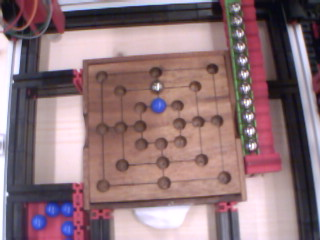
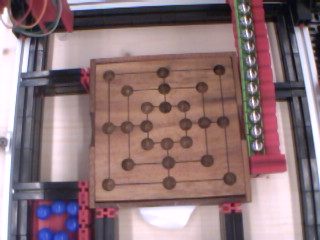
Fine prima parte

diff --git a/Tria.py b/Tria.py
@@ -52,10 +52,10 @@ Ypos = [900, 900, 900, 1471, 1471, 1471, 2500, 2500, 2500,
         3926, 4747, 4747, 4747, 5531, 5531, 5531]
 
 # Coordinate posizioni immagine fotocamera
-XposIMG = [98, 153, 208, 117, 154, 192, 138, 157, 173, 99, 118,
-           136, 176, 195, 214, 137, 156, 177, 117, 159, 198, 98, 159, 222]
-YposIMG = [70, 67, 64, 86, 82, 81, 102, 103, 100, 122, 122, 121,
-           118, 116, 116, 139, 137, 136, 158, 157, 155, 180, 178, 172]
+XposIMG = [106, 157, 213, 121, 158, 196, 143, 162, 182, 103, 120, 142, 181,
+           201, 220, 142, 163, 180, 125, 163, 202, 103, 164, 223]
+YposIMG = [69, 67, 64, 84, 81, 81, 102, 102, 102, 121, 122, 120, 117, 115,
+           116, 138, 138, 136, 158, 155, 153, 177, 176, 172]
 
 # Valore posizione(0 = posizione vuota, 1 = pallina Robot, 10 = pallina User)
 EMPTY = 0
@@ -275,6 +275,7 @@ def Strategia():
     "Strategia robot."
     opt.PosAttacco = []
     V = POS_CENTRALI
+    ritorno = True
     if (Val[V[0]] == EMPTY or
         Val[V[1]] == EMPTY or
         Val[V[2]] == EMPTY or
@@ -292,25 +293,27 @@ def Strategia():
                 fromto(scivoloPalline[0], scivoloPalline[1], Xpos[j], Ypos[j])
                 release()
                 Val[j] = ROBOT
-                return
-    for i in QUADRATI:
-        for j in COLLEGAMENTI:
-            if Val[i] == EMPTY and Val[j] == EMPTY:
-                if j not in V:
-                    Val[i] = ROBOT
-                    Val[j] = ROBOT
-                    FPossibiliTria()
-                    Val[i] = EMPTY
-                    Val[j] = EMPTY
-                    if len(opt.PosSvolgiTria) > 1:
-                        fromto(0, 0, scivoloPalline[0], scivoloPalline[1])
-                        catch()
-                        fromto(scivoloPalline[0], scivoloPalline[1],
-                               Xpos[i], Ypos[i])
-                        release()
+                break
+    if not ritorno:
+        for i in QUADRATI:
+            for j in COLLEGAMENTI:
+                if Val[i] == EMPTY and Val[j] == EMPTY:
+                    if j not in V:
                         Val[i] = ROBOT
-                        opt.PosAttacco = [j]
-                        opt.AttaccoState = 1
+                        Val[j] = ROBOT
+                        FPossibiliTria()
+                        Val[i] = EMPTY
+                        Val[j] = EMPTY
+                        if len(opt.PosSvolgiTria) > 1:
+                            fromto(0, 0, scivoloPalline[0], scivoloPalline[1])
+                            catch()
+                            fromto(scivoloPalline[0], scivoloPalline[1],
+                                   Xpos[i], Ypos[i])
+                            release()
+                            Val[i] = ROBOT
+                            opt.PosAttacco = [j]
+                            opt.AttaccoState = 1
+                            return
 
 
 def FPossibiliTria():
@@ -326,9 +329,9 @@ def FPossibiliTria():
     for i in TRIA:
         s = GetItems(Val, i)
         if 0 in s:
-            print("0: "),i[s.index(0)]
-        if 1 in s:
-            print("1: "),i[s.index(1)]
+            posEmpty = i[s.index(0)]
+        if 10 in s:
+            posUser = i[s.index(10)]
         if sum(s) == 20:
             opt.Priorita = BLOCCOTRIA
             opt.PosBloccoTriaU.append(posEmpty)
@@ -527,7 +530,7 @@ def TogliPallina():
                     catch()
                     fromto(Xpos[i], Ypos[i],
                            contenitorePVR[0], contenitorePVR[1])
-                    release()
+                    ventosa.setLevel(OUTMIN)
                     return
                 else:
                     Val[i] = USER
@@ -536,7 +539,7 @@ def TogliPallina():
             Val[i] = USER
             FPossibiliTria()
             Val[i] = EMPTY
-            if len(opt.PosTogliPallina) > 0:
+            if len(opt.PosBloccoTriaU) > 1:
                 fromto(opt.CurrentX,
                        opt.CurrentY,
                        Xpos[opt.PosTogliPallina[0]],
@@ -546,7 +549,7 @@ def TogliPallina():
                        Ypos[opt.PosTogliPallina[0]],
                        contenitorePVR[0],
                        contenitorePVR[1])
-                release()
+                ventosa.setLevel(OUTMIN)
                 return
     for i in range(0, 24):
         if Val[i] == 10:
@@ -559,7 +562,7 @@ def TogliPallina():
             fromto(Xpos[i], Ypos[i],
                    contenitorePVR[0], contenitorePVR[1])
             Val[i] = EMPTY
-            release()
+            ventosa.setLevel(OUTMIN)
             return
 
 #-----INIZIO PROGRAMMA------------------------------------------------
@@ -601,7 +604,7 @@ if (Robot):
             ControlloAttacco()
             if opt.Priorita != 3:
                 debug("Controllo Difesa...")
-                # ControlloDifesa()
+                ControlloDifesa()
         if opt.Priorita == DIFESA:
             debug("Difesa...")
             Difesa()
